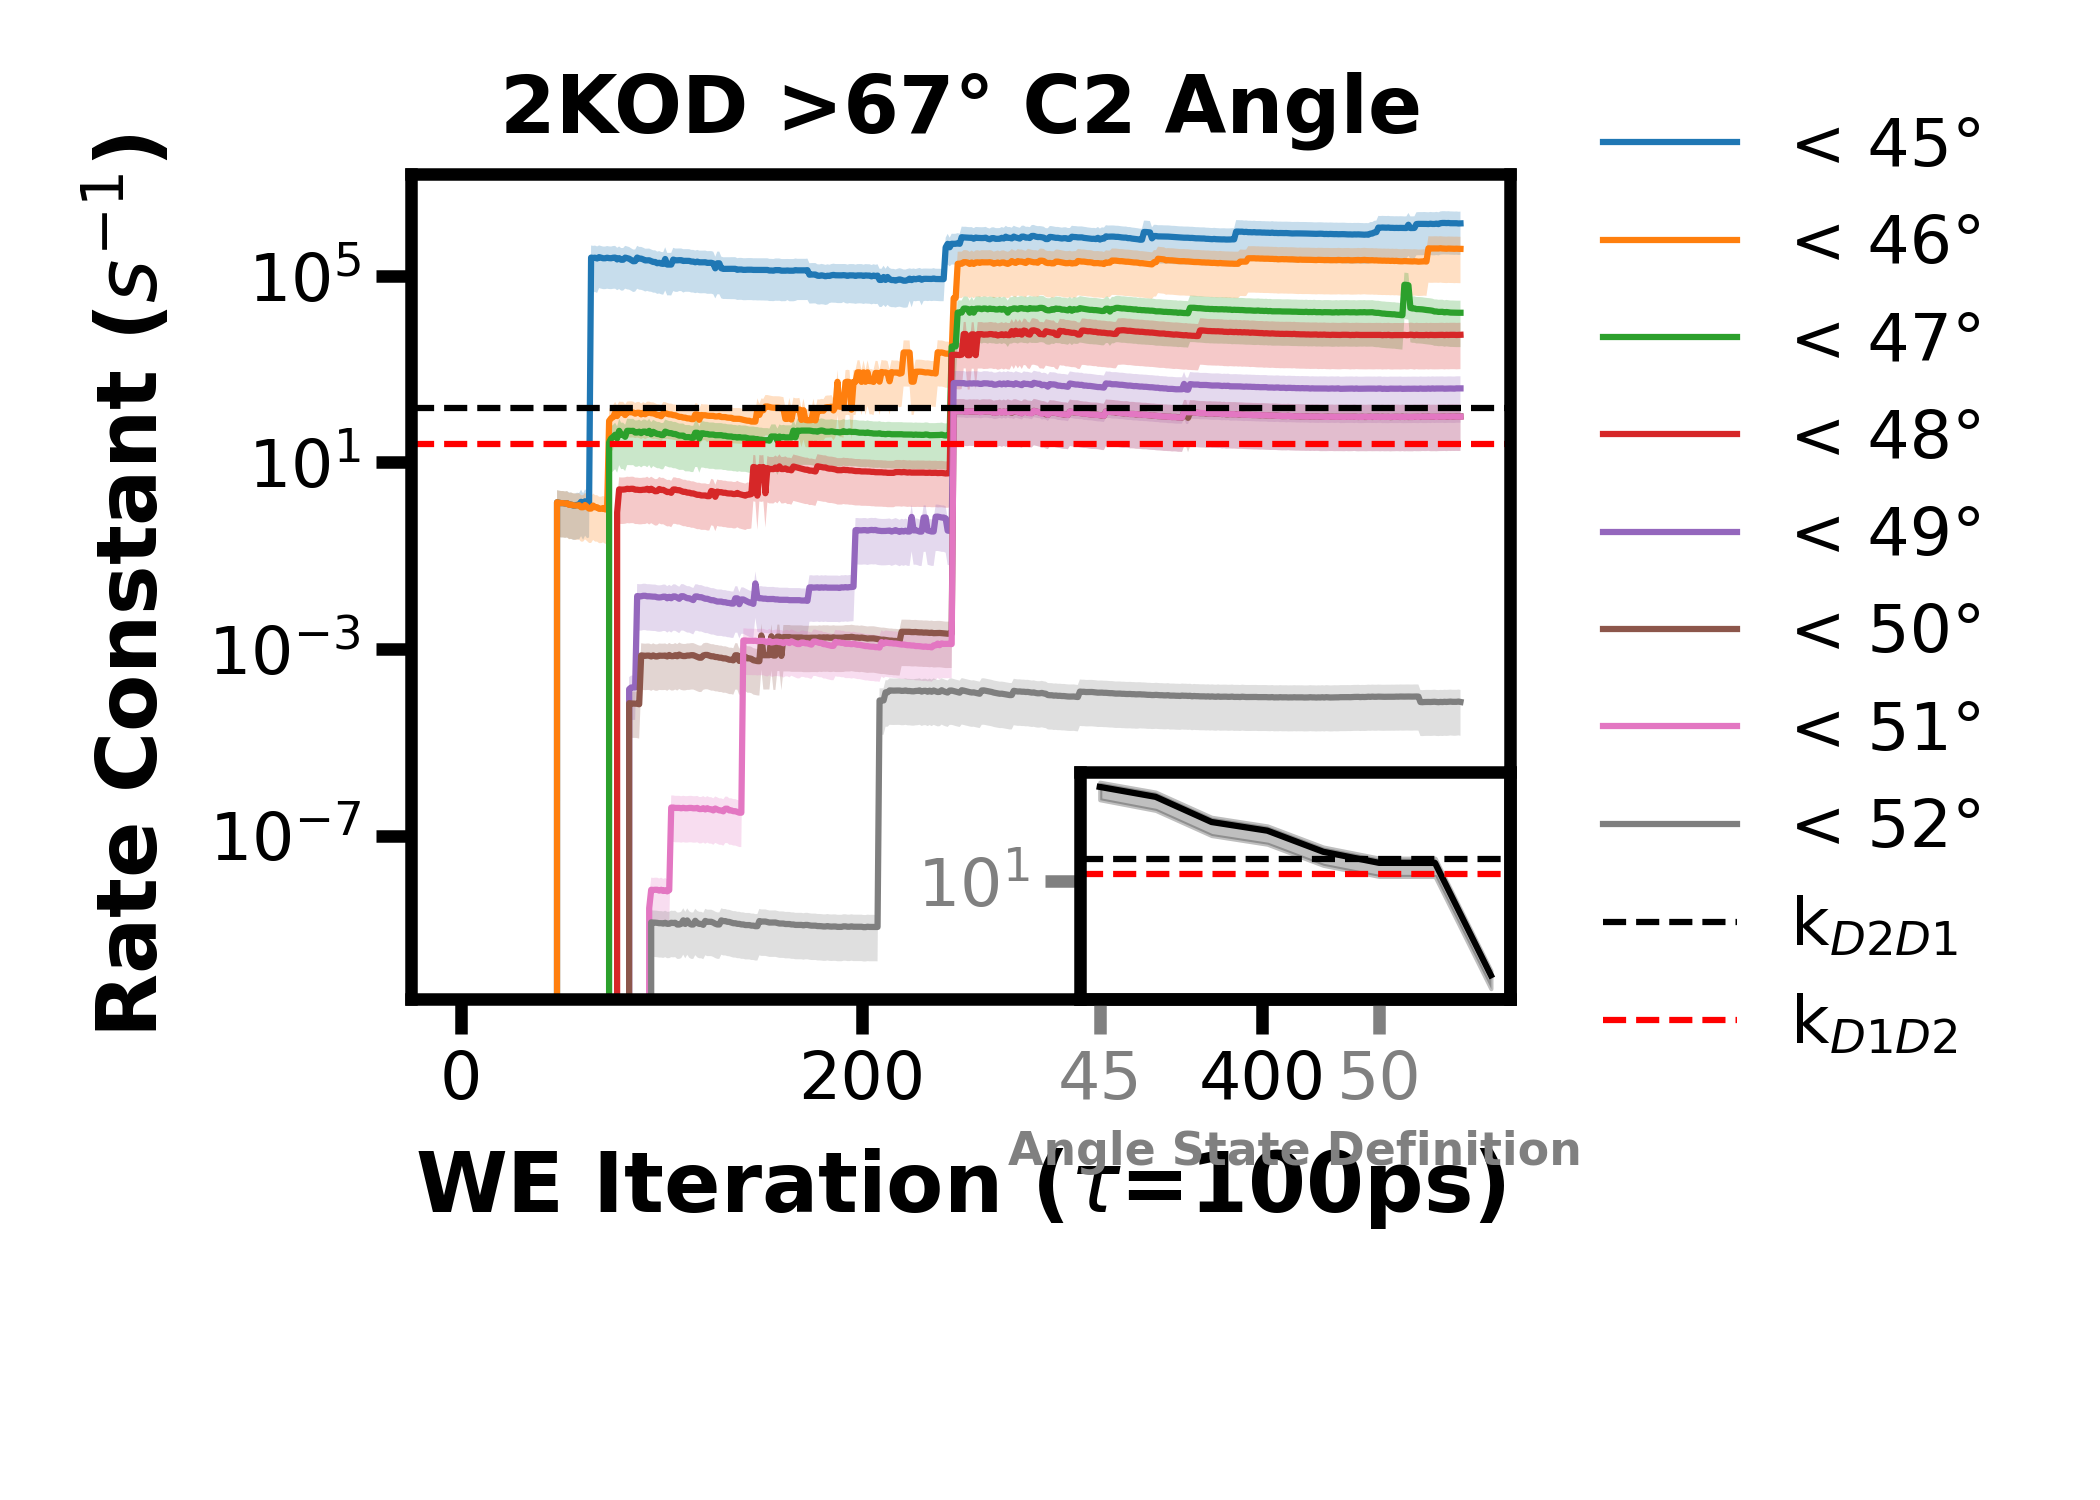
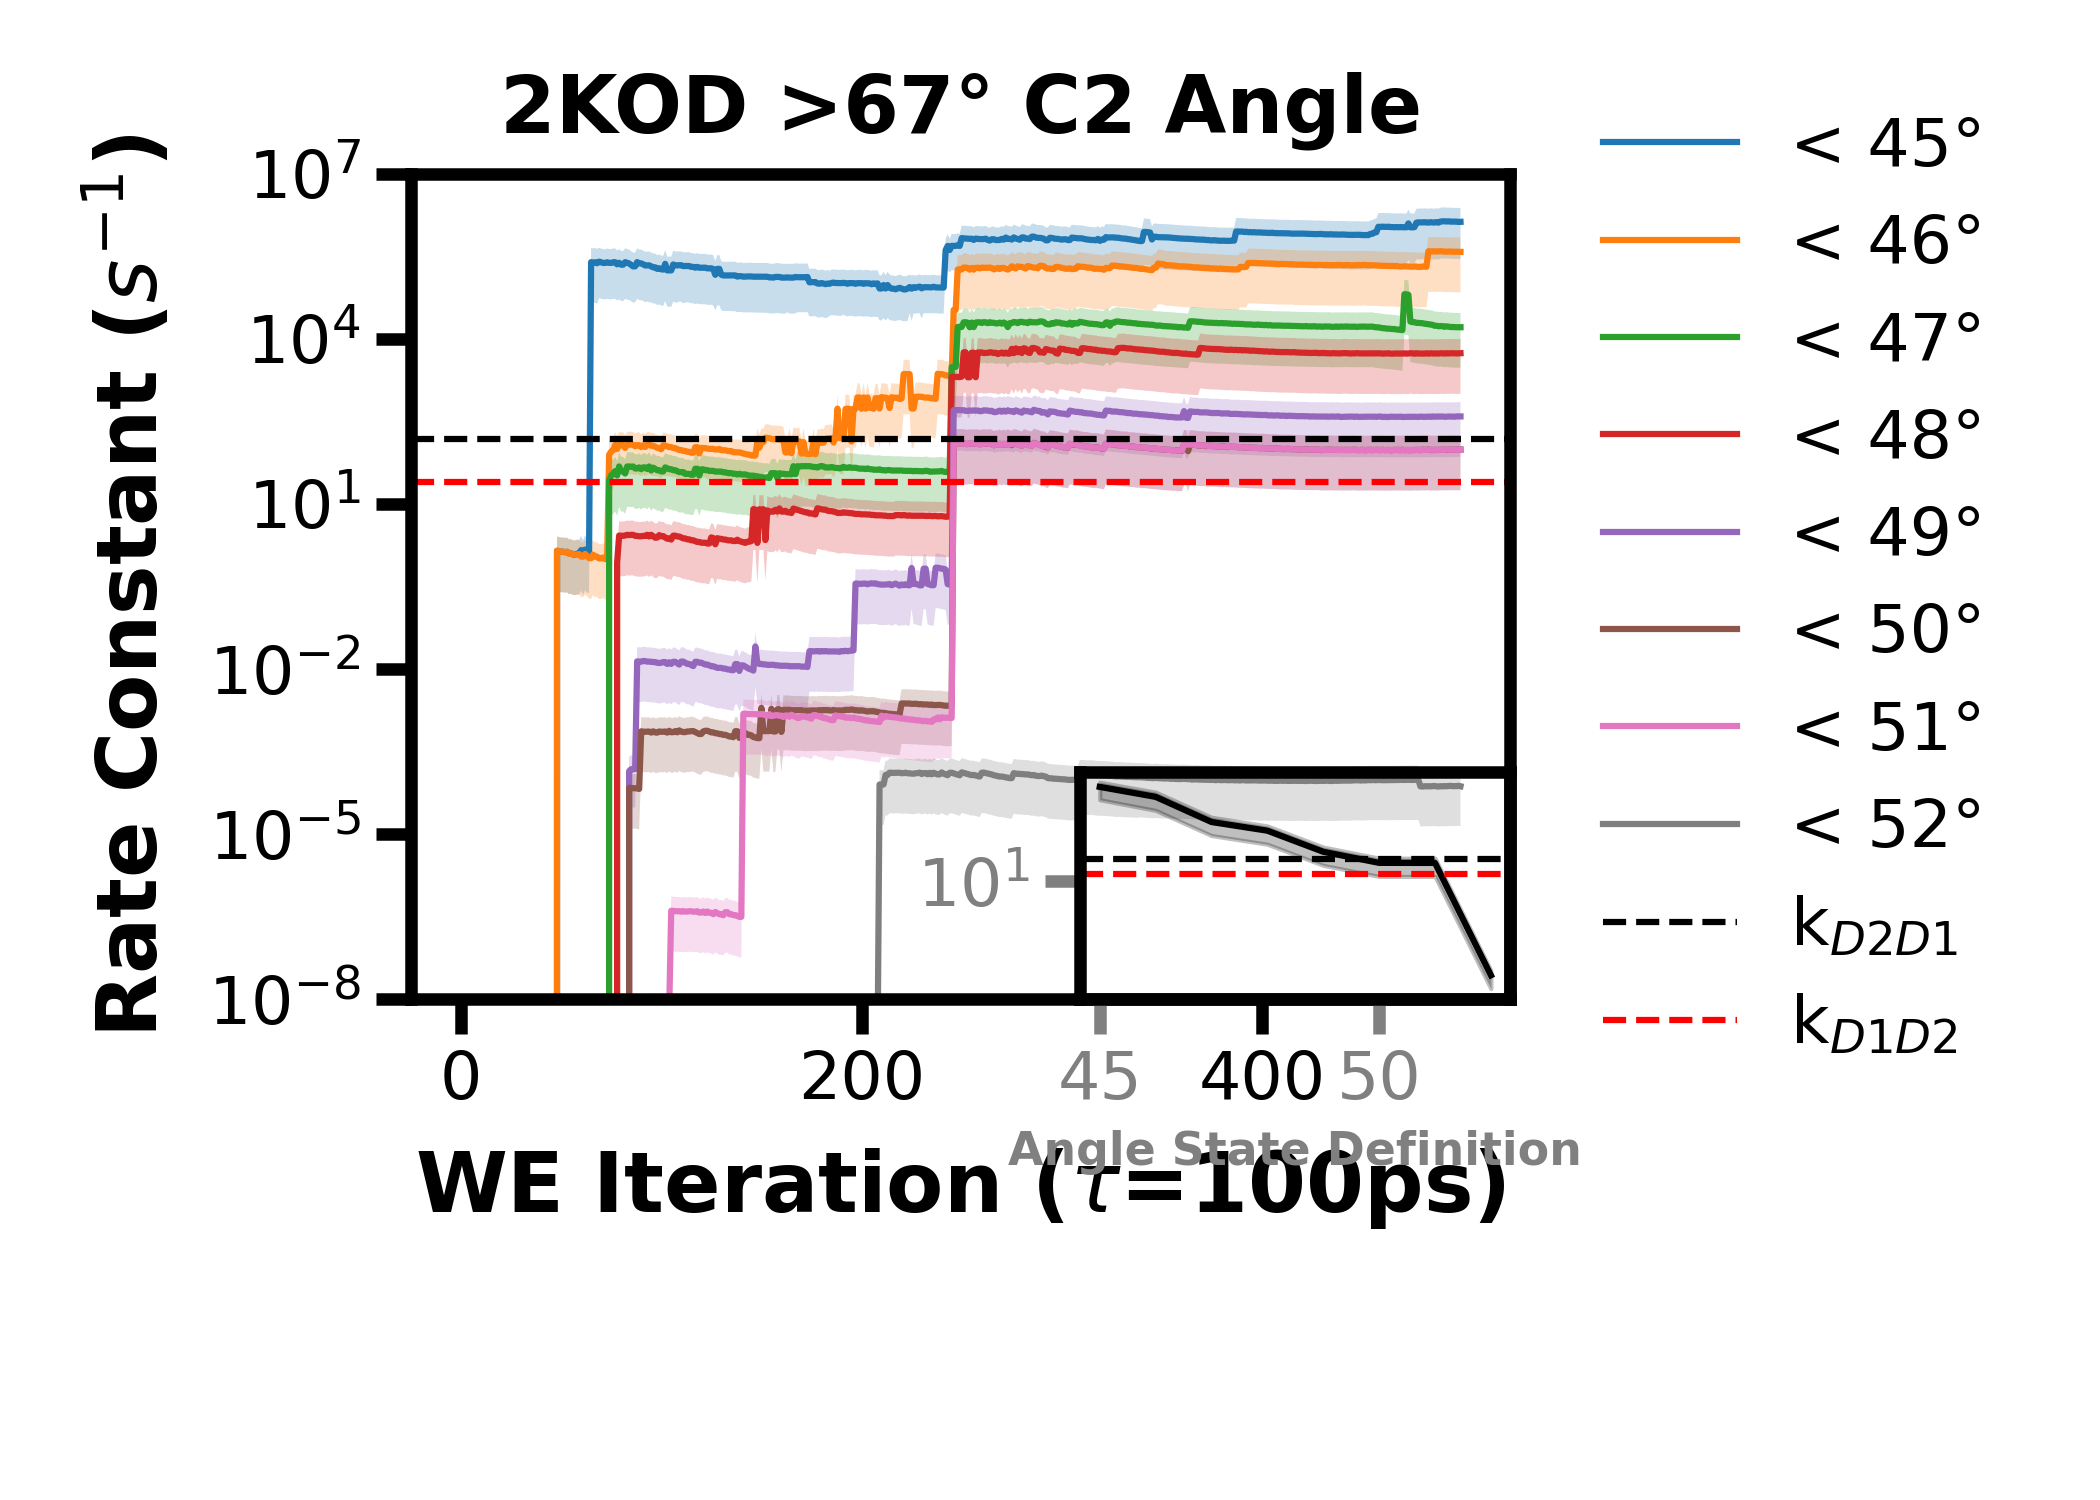
made the plot of varying c2 with constant oa

diff --git a/plot_direct_h5.py b/plot_direct_h5.py
@@ -36,6 +36,7 @@ The structure of these datasets is as follows:
     of tau.
 """
 
+from turtle import colormode
 import numpy as np
 import matplotlib.pyplot as plt
 import h5py
@@ -253,6 +254,7 @@ class Kinetics:
         #for vi, ver in enumerate(["v00", "v01", "v02", "threshv00"]):
             for ai, angle in enumerate(self.states):
                 self.scheme = f"{ogscheme}/{self.prefix}{angle}_v0{ver}"
+                #print(self.scheme)
                 self.label = f"> {angle}°"
                 # calc and fill out rate
                 rate_ab, ci_lb_ab, ci_ub_ab = self.extract_rate()
@@ -407,10 +409,43 @@ class Kinetics:
 # k = Kinetics(45, 53, scheme="2kod_oa_65c2", prefix="2d_", state=1, savefig=True)
 # k.plot_std_error_rate_reps(reps=3, def_subplot=326, title="2KOD >65° C2 Angle")
 
-k = Kinetics(65, 71, scheme="2kod_oa_65c2", prefix="2d_", state=1, savefig=True)
-k.plot_std_error_rate_reps(reps=3, def_subplot=326, title="2KOD >65° C2 Angle")
+# for c2 in range(65, 66):
+#     k = Kinetics(45, 53, scheme=f"2kod_oa_{c2}c2", prefix="2d_", state=1, savefig=False)
+#     plt.ylim(10**-8, 10**7)
+#     rates = k.plot_std_error_rate_reps(reps=3, def_subplot=326, title=f"2KOD >{c2}° C2 Angle")
 
+# TODO: save the 50° oa value and plot them later
+c2_rates = []
+for c2 in range(65, 72):
+    k = Kinetics(50, 51, scheme=f"2kod_oa_{c2}c2", prefix="2d_", state=1, savefig=False)
+    rates = k.plot_std_error_rate_reps(reps=3, title=f"2KOD >{c2}° C2 Angle")
+    cols = [c2, np.average(rates), (np.std(rates)/np.sqrt(3))]
+    c2_rates.append(cols)
+
+c2_rates = np.array(c2_rates)
+print(c2_rates)
+fig3, ax3 = plt.subplots()
+
+print(c2_rates[:,0] - c2_rates[:,2])
+
+ax3.plot(c2_rates[:,0], c2_rates[:,1], color="k")
+ax3.fill_between(c2_rates[:,0], 
+                 c2_rates[:,1] - c2_rates[:,2], 
+                 c2_rates[:,1] + c2_rates[:,2], 
+                 alpha=0.25, color="k")
+
+ax3.set_xlabel("Angle State Definition")
+ax3.set_ylabel("Rate Constant ($s^{-1}$)")
+#plt.yscale("log", subs=[2, 3, 4, 5, 6, 7, 8, 9])
+#plt.yscale("symlog", subs=[2, 3, 4, 5, 6, 7, 8, 9])
+plt.ylim(-10, 250)
+k.plot_exp_vals(ax3)
+#ax3.tick_params(colors="grey")
+plt.legend()
 plt.tight_layout()
-plt.show()
+fig3.savefig("figures/c2_65-71.png", dpi=300, transparent=True)
+
+#plt.tight_layout()
+#plt.show()
 
 # TODO: plot the 51° OA and multiple C2 angles
